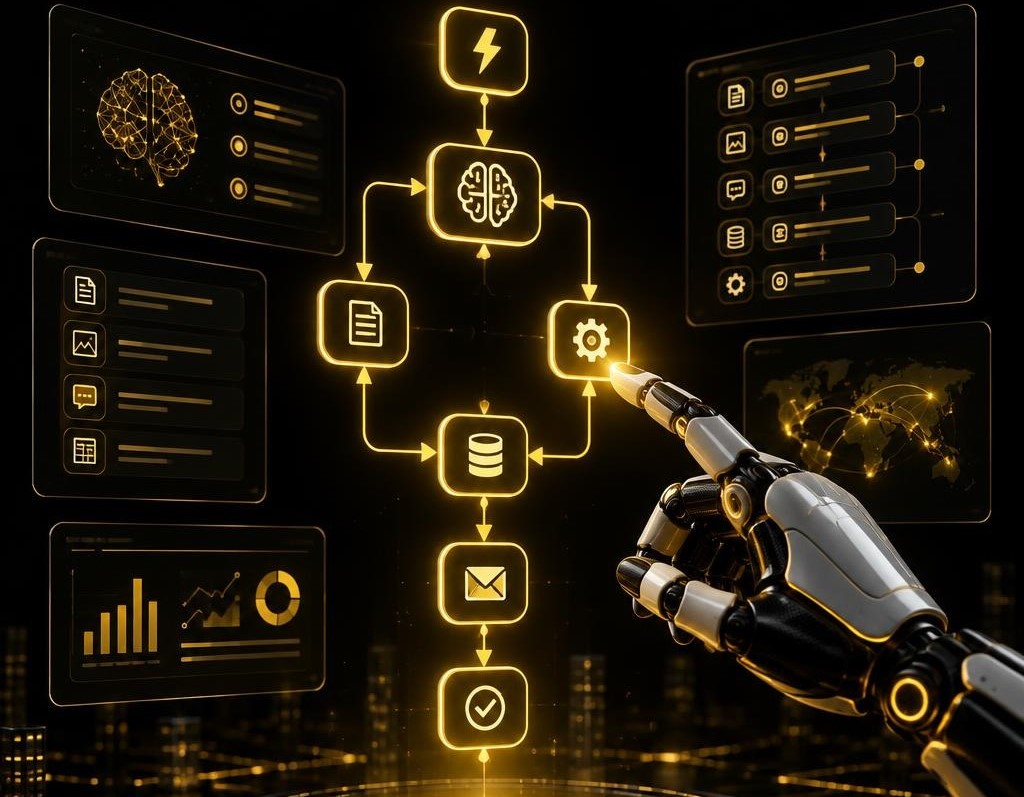
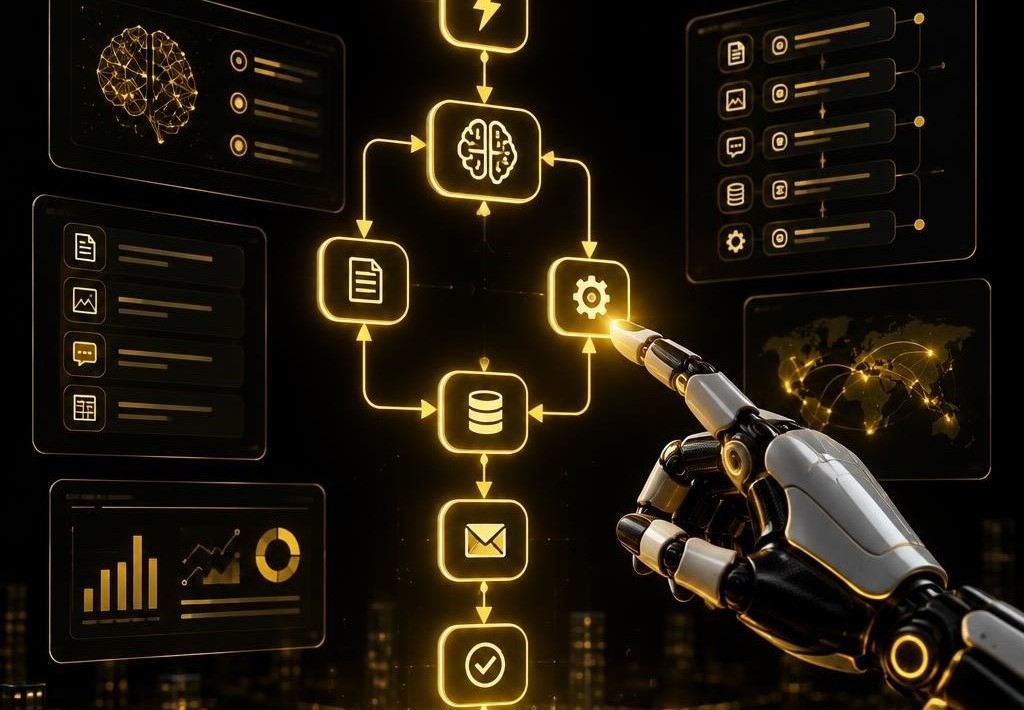
add content in ai automation pagen

diff --git a/src/pages/Services/Ai_Automation/AiAutomation.jsx b/src/pages/Services/Ai_Automation/AiAutomation.jsx
@@ -69,29 +69,29 @@ const AiAutomation = () => {
           processData: [
                {
                     id: "01",
-                    title: "Creative Brief",
-                    desc: "Define the vision, style, objectives, and key messages for your animation project."
+                    title: "Discovery & Mapping",
+                    desc: "We audit your current workflows and identify the tasks that waste the most time and money."
                },
                {
                     id: "02",
-                    title: "Storyboarding",
-                    desc: "Create detailed storyboards, motion concepts, and style frames for approval."
+                    title: "Blueprint Design",
+                    desc: "We design the automation architecture — triggers, AI agents, and every tool in the chain."
                },
                {
                     id: "03",
-                    title: "Animation Production",
-                    desc: "Bring storyboards to life with professional 2D/3D animation and sound design."
+                    title: "Build & Integrate",
+                    desc: "We build the workflows in n8n, Zapier, Langflow, or GoHighLevel and connect all your apps."
                },
                {
                     id: "04",
-                    title: "Review & Deliver",
-                    desc: "Refine based on feedback and deliver in all required formats and resolutions."
+                    title: "Test, Launch & Optimize",
+                    desc: "We test every path, launch your automations, then continuously monitor and improve them."
                }
           ],
 
-          toolsData: ["After Effects", "Cinema 4D", "Premiere Pro", "Blender", "Lottie", "DaVinci Resolve"],
+          toolsData: ["n8n", "Zapier", "Langflow", "GoHighLevel", "OpenAI", "Make"],
 
-          relatedServices: services.slice(1, 4)
+          relatedServices: services.slice(2, 5)
      }
 
 
